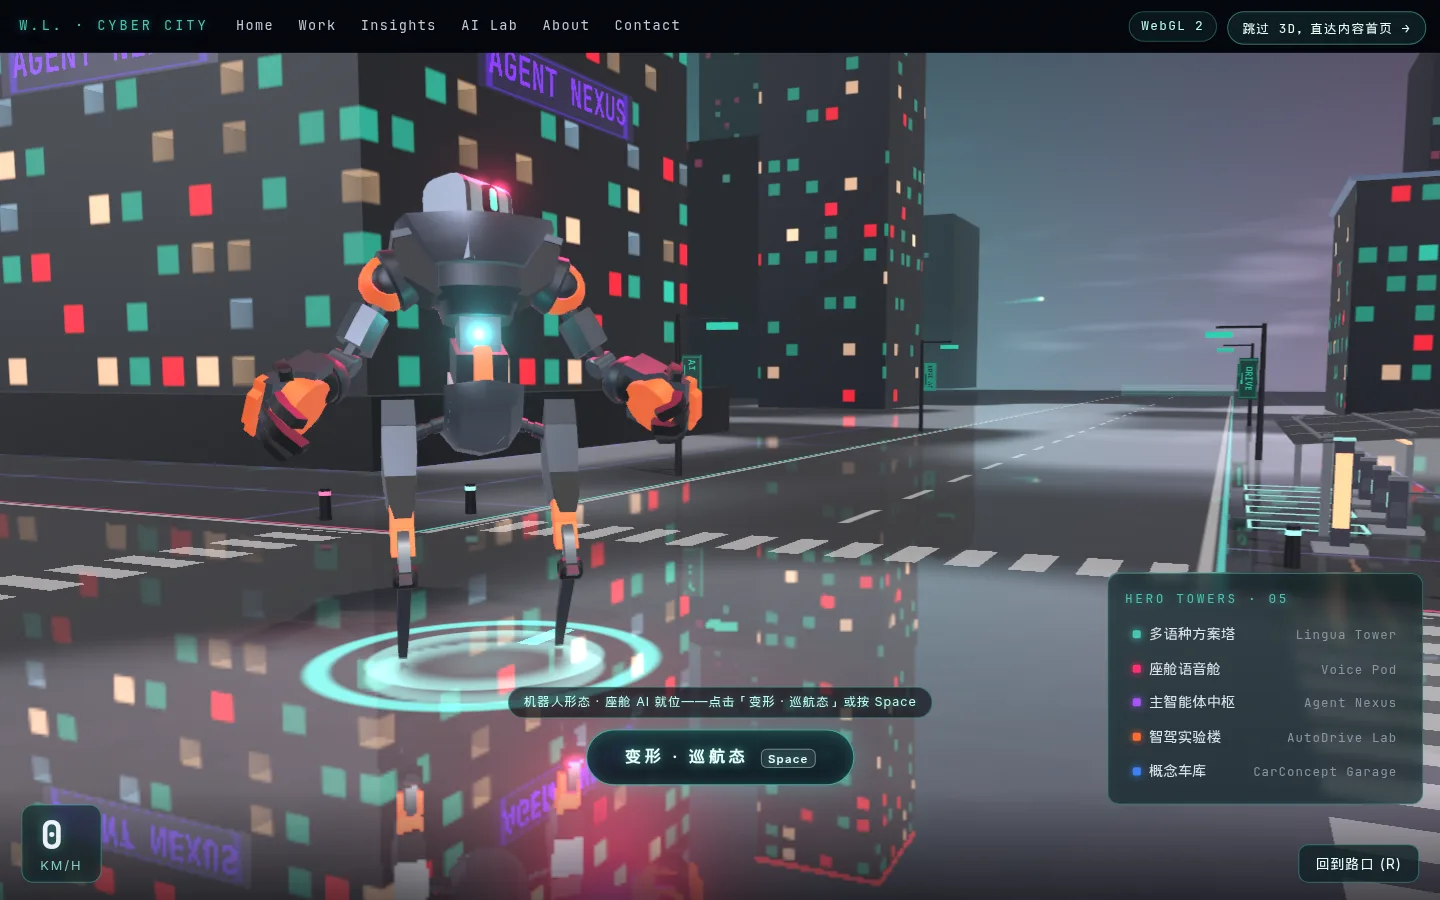
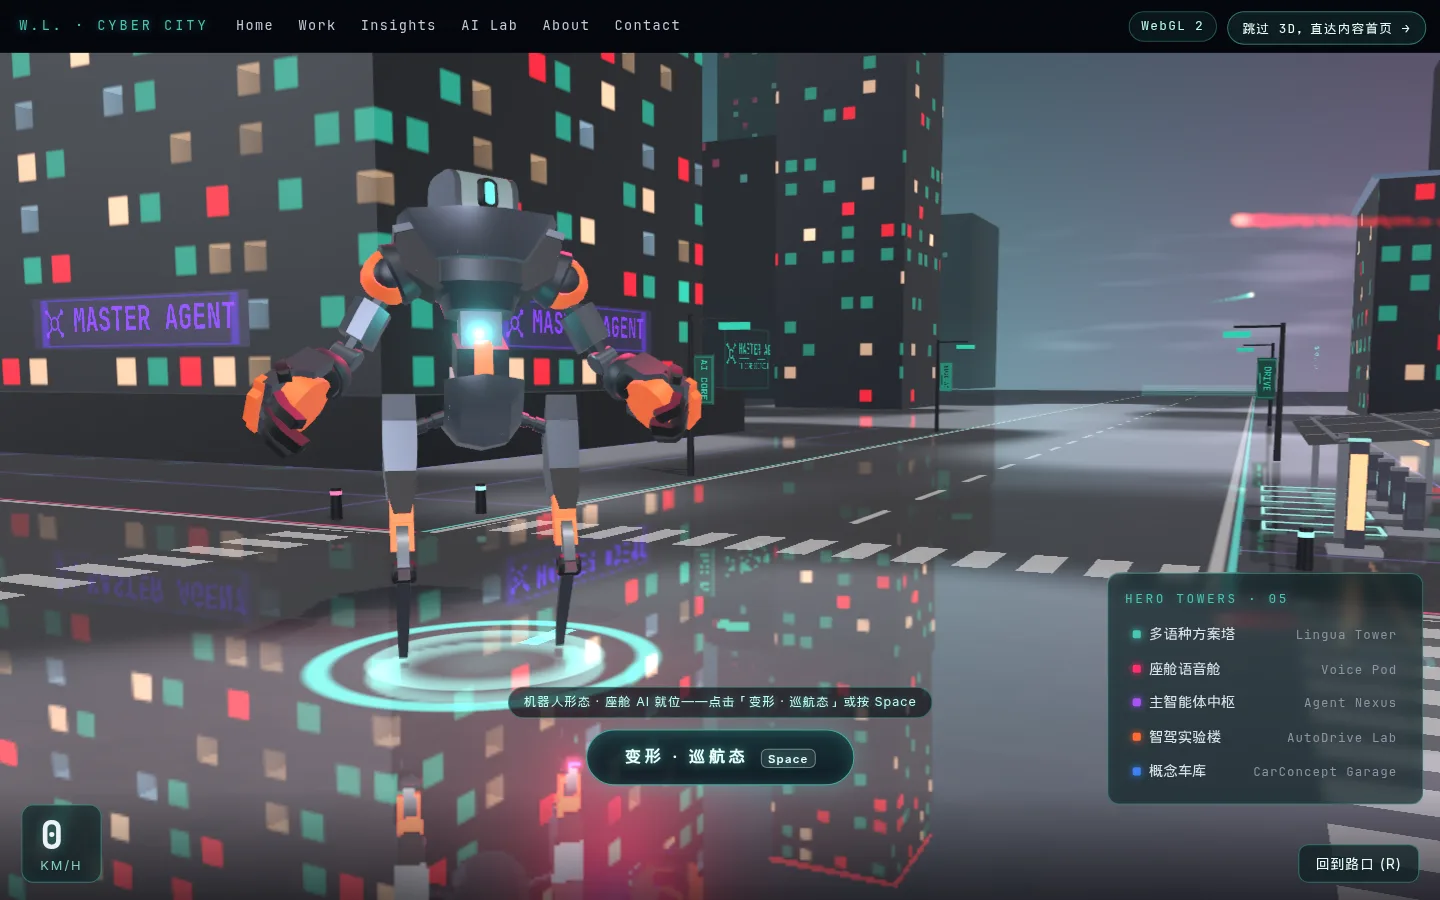
docs(audit): CC-AL-VIS-L8-W1-R3 终稿——独立视觉 71→73 生产登记 + X1a V4 门 74 GO + D10 V5 收账 74 + 取证串台更正先例

diff --git a/docs/research/loop8-vis-w1-audit.md b/docs/research/loop8-vis-w1-audit.md
@@ -4,32 +4,75 @@
 
 | 项 | 审计事实 |
 |---|---|
-| 审计对象 | `main@dc3f56b`（worktree fresh 构建，审计分支 `cursor/cc-al-vis-l8-w1-r3-1d6f`） |
-| 比较基线 | 上次生产登记 `main@b2a59e4`（CC-AL-CAM 独立 71，raw 70.50） |
-| 冻结秤 | `docs/research/cyber-city-visual-rubric.md` v1.1（七维锚点 + 帧优先铁律） |
-| 环境 | Node v22.14.0、pnpm 10.33.3、Chromium(SwiftShader)、1440×900；`pnpm install --frozen-lockfile` → `pnpm build`（EXIT=0）→ `pnpm preview --port 4331` |
-| 状态 | **草稿（DRAFT）**——首帧已取证入库，七维为草稿分；终稿分与 score JSON 登记在本文件后续 commit 收口 |
+| 审计对象 | `main@dc3f56b`（L8 W1 全合后 tip；worktree fresh 构建，审计分支 `cursor/cc-al-vis-l8-w1-r3-1d6f`） |
+| 比较基线 | 上次生产登记 `main@b2a59e4`（CC-AL-CAM 独立 71，raw 70.50；score JSON 自 `c5b80e6` 后无中间登记，git log 实核） |
+| 冻结秤 | `docs/research/cyber-city-visual-rubric.md` v1.1（七维锚点 + 帧优先铁律 + 反通胀条款，原秤未动） |
+| 环境 | Node v22.14.0、pnpm 10.33.3、Chromium(SwiftShader/WebGL2 后端)、1440×900；`pnpm install --frozen-lockfile` → `pnpm build`（19 pages，EXIT=0）→ 隔离 preview **:4335** |
+| 独立视觉分 | **73 / 100**（raw 72.60；上轮 71，Δ+2.10）——`cyber-city-visual-rubric-score.json` 已同步，`node scripts/score-loop.mjs` 实跑确认 visual 轴 73 入账 |
+| 裁决 | **GO**：X1a V4 专项门 72–75 判 **74**（H1 整帧直读成立）；D10 潜分收账（V5→74）本轮唯一执行；生产登记 71→73 |
 
-## 1. Fresh 帧入库登记（取证 B 协议）
+## 1. 审计范围与可归因增量
+
+`b2a59e4..dc3f56b` 视觉面增量（其余 FXN/PERF 合流仅计 HUD/道具随行效应）：
+
+| 批 | 合流 | 视觉面 |
+|---|---|---|
+| CC-TRANS-FX | `c2301a7`+`dc1740d` | 变形窗过程化粒子层（充能喷发/环向碎屑/光幕光尘/落地余烬）——AL-TRANS-FX 已 GO 并建议 V5=74，生产分当时未登记 |
+| CC-VEH-VIEW / VEH-C2 | `4daa723`/`554f119` | 驾驶 third↔FPV 双视角 V 键硬切 + drive shots 注册表单源 |
+| CC-VIS-X3 招牌叙事 v2 | `c0bb67a` | 三层招牌体系（楼顶 EN 主匾 + 楼身 zh 竖幅 + 街层产品线灯箱）5 栋 + 全息广告板 4 块 + stagger 150ms 逐楼点亮 |
+| CC-VIS-X1A-R4（BL2-R2） | `dea7c1e`（#92） | concept-garage hero GLB 入 main（148,696B/2,996tris，SHA `0b3717d4…35fb`）+ 螺旋塔体量再分布为南立面西段鼓塔 |
+| CC-FXN C1–C6 随行 | 多枚 | 键位卡/进站前奏 tween/探索 chip n/12/G4 下一站 quest chip/G9 测速牌/确认层 |
+
+X4（调色/tone mapping/bloom）与 poster 域本窗口零改动——V2/V3 不得凭空上修，只计帧内新增可见性。
+
+## 2. 取证事故与更正（先例登记，防复发）
+
+R3 草稿 commit（`a295aa2`）的首帧取证存在**跨会话串台**：本 VM 多代理并存，4331–4334 端口均被其他会话 preview 占用，`pnpm preview --port 4331` 实际回落到 **4335**，而草稿帧误从 4331（他人 stale 构建 = X3 已合、X1A 未合的中间态）取证。表征：页面 chunk `world.EB-mb3zd.js` 不在本轮 dist；`ConceptGarage.glb` 零请求；city 挂载日志自报「hero 实模 GLB 1 件在册」。
+
+**更正**：草稿两帧全部作废重截。终稿全部帧取自 :4335，并逐项核对（a）页面 chunk hash ∈ 本轮 `dist/_astro/`（`world.of_r3jhK.js` 等实测命中）；（b）F2 会话 Q0 **双 hero GLB 请求**（`AutodriveLab.glb` + `ConceptGarage.glb`）——X1a fresh 探针合同在真实 main 上成立。**先例条款**：共享 VM 上取证前必须核对 preview 日志实际端口 + chunk hash 对账，此为后续视觉审计硬前置。
+
+## 3. Fresh 帧入库登记（取证 B 协议）
 
 | # | 帧 | 入库路径 | 取证参数 |
 |---|---|---|---|
-| F1 | robot_idle 首幕 | `docs/research/assets/visual-rubric/l8w1-world-robot-1440.webp`（81,194B） | `/website/` 默认路径；`data-state=ready` → `data-world-state=robot_idle` 落定后按规程派发 `visibilitychange(hidden)` 暂停渲染再截；1440×900 CSS px |
+| F1 | robot_idle 首幕 | `docs/research/assets/visual-rubric/l8w1-world-robot-1440.webp`（82,072B） | `/website/` 默认路径；`data-state=ready` → `data-world-state=robot_idle` 落定后派发 `visibilitychange(hidden)` 暂停渲染再截；1440×900 CSS px；HeroRobot+两 hero GLB 请求在案 |
+| F2 | `?poi=work-gallery` settled 整帧 | `docs/research/assets/visual-rubric/l8w1-poi-work-gallery-1440.webp`（126,414B） | 深链 settled（timeline：`deep-link#2 → ready#3 → world-quest#4 → poi-bounding-in#5 → explore-progress#6`）；Q0、1440×900；与 R4 取证同深链同 viewport（相机数值读出受 SwiftShader 主线程争用未截获，判定以 whole-frame 直读为准——与 X1a「整帧裸眼可读」唯一标尺一致） |
+| F2a | F2 上部放大裁切（**仅辅助**） | `docs/research/assets/visual-rubric/l8w1-poi-work-gallery-crop-upper.webp`（50,348B） | F2 (400,0)+1040×500 原像素裁切，辅助佐证 H1，不作主证 |
 
-（后续帧：`?poi=work-gallery` 鼓塔组合轮廓帧、招牌叙事细读帧、car_ready 帧——取证后补登记本表。）
+## 4. 七维终稿（帧优先，逐维引用证据帧 + 锚点段落）
 
-## 2. 七维草稿分（DRAFT，待终稿合议）
-
-| 维 | 权重 | 上轮（CAM 71） | 草稿 | 草稿依据（F1 帧 + 合流增量） |
+| 维 | 权重 | 上轮 | 终稿 | 锚点裁决与证据 |
 |---|:---:|:---:|:---:|---|
-| V1 首幕构图 | .20 | 65 | **72** | F1：机器人主体 + 招牌中景 + 雾/地平线辉光远景 ≥3 层纵深；锥桶已撤；构图有斜向张力 |
-| V2 光照材质 | .20 | 74 | **75** | F1 首幕机位湿地面反射清晰可见（上轮首幕不入画的扣分点已销）；bloom 纪律不变 |
-| V3 色彩氛围 | .15 | 69 | **70** | 主色调统一、HUD/3D 同源；窗格仍见红/青/白/橙多族同框，色相纪律待细读 |
-| V4 场景密度 | .15 | 72 | **74** | X3 三层招牌体系 + 全息广告板（AGENT NEXUS 等文字帧内直读）+ X1A-R4 鼓塔几何 + 路灯/站台道具；待 work-gallery 帧核 72–75 门 |
-| V5 动效转场 | .15 | 70 | **74** | D10 潜分收账：AL-TRANS-FX GO 建议 74（变形粒子炫技层）；FXN-C3 进站 tween + 招牌 stagger 150ms 逐楼点亮 |
-| V6 UI/HUD 整合 | .10 | 73 | **74** | F1：HERO TOWERS 霓虹面板常驻 + 速度表 + hint 丸同族视觉语言 |
-| V7 主题原创 | .05 | 75 | **78** | 楼=产品线由 X3 招牌文字实现帧内自明（上轮「靠文案自明」扣分点部分销账） |
+| V1 首幕构图 | .20 | 65 | **68** | F1：机器人焦点 + 招牌中景（MASTER AGENT 主匾/楼身 zh 竖幅帧内直读）+ 剪影/雾/地平线辉光远景 ≥3 层纵深 + 飞行光轨天空微动——踩进 70-85 段「焦点明确 + ≥3 层纵深」下沿；poster 未重拍（A10 欠账）、definitive shot 打磨缺席，压回 68 |
+| V2 光照材质 | .20 | 74 | **75** | 光照/后处理域零改动（X4 未动，bloom threshold/strength 原值）；可归因增量仅 F2 第二栋 hero GLB 的 KTX2/PBR 展厅玻璃 + 鼓身发光带入 POI 帧、湿地面反射蓝圈/光柱清晰（帧优先 +1）；70-85 段「反射/阴影在主要机位可见」维持 |
+| V3 色彩氛围 | .15 | 69 | **70** | 招牌/广告板色族走 neon tokens 单源、逐楼语义色一致（F1 紫匾=Agent Nexus、F2 蓝幅=概念车库）；但同帧仍青+红+暖白+紫+橙多族并置（F1 窗色三族 + 招牌族 + 机器人橙），50-65↔70-85 边界取 70 |
+| V4 场景密度 | .15 | 72 | **74** | **X1a H1 判定：过**——F2 整帧直读「弧形鼓身 + 横向光带（螺旋带）+ 屋顶阶差」组合轮廓（F2a 裁切仅辅助），不依赖顶缘裁切弧；**H5 专项门 72–75 内取 74**（下沿口径，第三栋收益归 X1b 不预支）。X3：三层招牌 5 栋 + 广告板令 3D 认楼不再靠 DOM（F1 MASTER AGENT / F2 CAR CONFIGURATOR·概念车库·AUTODRIVE 全帧内可读）；70-85 段「关键视角密度达标、覆盖不全」 |
+| V5 动效转场 | .15 | 70 | **74** | **D10 潜分收账（唯一执行，两处不重复）**：AL-TRANS-FX GO 建议 74 落账（变形粒子四拍完整）；叠加本窗口合流的 C3 进站 tween、X3 stagger 150ms 逐楼点亮、FPV V 键双视角——70-85 段「关键节拍完成度高」下部；镜头运动打磨（B5 运镜）仍缺，静帧审计不越 74 |
+| V6 UI/HUD 整合 | .10 | 73 | **74** | F1/F2：HERO TOWERS 常驻霓虹面板 + 探索 chip 1/12 + 「下一站 概念车库 36m 1/5」quest chip + 速度表 + POI 立体标牌（E 键图标 + 双语）同族视觉语言（+1）；系统字体栈零个性化维持扣分 |
+| V7 主题原创 | .05 | 75 | **78** | 「楼=产品线」由 X3 产品线图标灯箱 + EN/zh 双语招牌帧内自明（F2 CAR CONFIGURATOR + 概念车库竖幅 + 车图标），鼓塔图腾整帧可读——上轮 70-85 段「仍靠文案自明」扣分点部分销账 |
 
-**草稿合成**：72×.20+75×.20+70×.15+74×.15+74×.15+74×.10+78×.05 = raw **73.4 → 73**（上轮 71，Δ+2）。
+**合成**：68×.20 + 75×.20 + 70×.15 + 74×.15 + 74×.15 + 74×.10 + 78×.05 = **raw 72.60 → 73/100**（上轮 71，Δ+2.10）。
 
-> 反通胀声明：以上为草稿；终稿须逐维引用 ≥1 证据帧 + 锚点段落，与上轮分差 ≥±10 的维写差异说明。V4 的 X1a 72–75 门以 `?poi=work-gallery` 同参帧为准，不以本草稿预支。
+反通胀核对：全部维分与上轮分差 <10，无需强制差异说明；仍逐维给出可归因增量。与 R3 草稿（V1 72）的差异：终稿按帧优先压回 68——草稿帧来自 stale 构建且未扣 poster/definitive shot 欠账。
+
+## 5. 硬门自查
+
+1. 独立审计署名，未采用实现方自评（X1a 实现记录自评不入本表）：**守住**。
+2. 帧优先铁律：V2/V3/V5 未凭代码存在上修，只计帧内可见/已审 GO 收益：**守住**。
+3. SwiftShader 折扣有界：构图/色彩/密度判断与渲染器无关；MSAA/色调偏差未作扣分理由：**守住**。
+4. X1a H1「不借放大即可整帧读出组合轮廓」以 F2 主证、F2a 仅辅助：**守住**。
+5. D10 潜分收账唯一执行（X3/X1a 两处不重复计）：**守住**——本审计为 W1 全合后首次生产登记。
+6. 秤未动：rubric v1.1 权重/锚点零改动，score JSON schema 不变（weightSum=1 实测）：**守住**。
+7. 零业务代码：本分支相对 main 仅 `docs/research/`（本报告 + score JSON + 3 帧 webp）：**守住**。
+8. 取证串台已更正并登记先例条款（§2）：**守住**。
+
+## 6. 裁决与下一轮
+
+**GO，73/100 生产登记（71→73）。** 综合分敏感度：视觉仍是五轴最低位，每 +4 ≈ 综合 +1。到 85° 的欠账按 ROI 排序：
+
+1. **A10 poster 重拍**（V1 最大单件欠账；X1a/X3 已合，重拍条件成熟，真机 GPU 按 §4 协议 ≤40KB）；
+2. **X1b 第三栋 hero**（V4 74→77± 的下一台阶，独立 PR 独立归因）；
+3. **B5 变形运镜 + 镜头微动**（V5 74 → 78± 需镜头层证据，静帧审计无法解锁）；
+4. **V3 同帧色相纪律精修**（招牌/窗色/道具三族收敛的全城 pass，X4 域裁决后动）。
+
+本审计只新增本报告、`cyber-city-visual-rubric-score.json` 重登与 3 帧取证 webp；`src/`、`e2e/`、配置与规格正文零改动。
